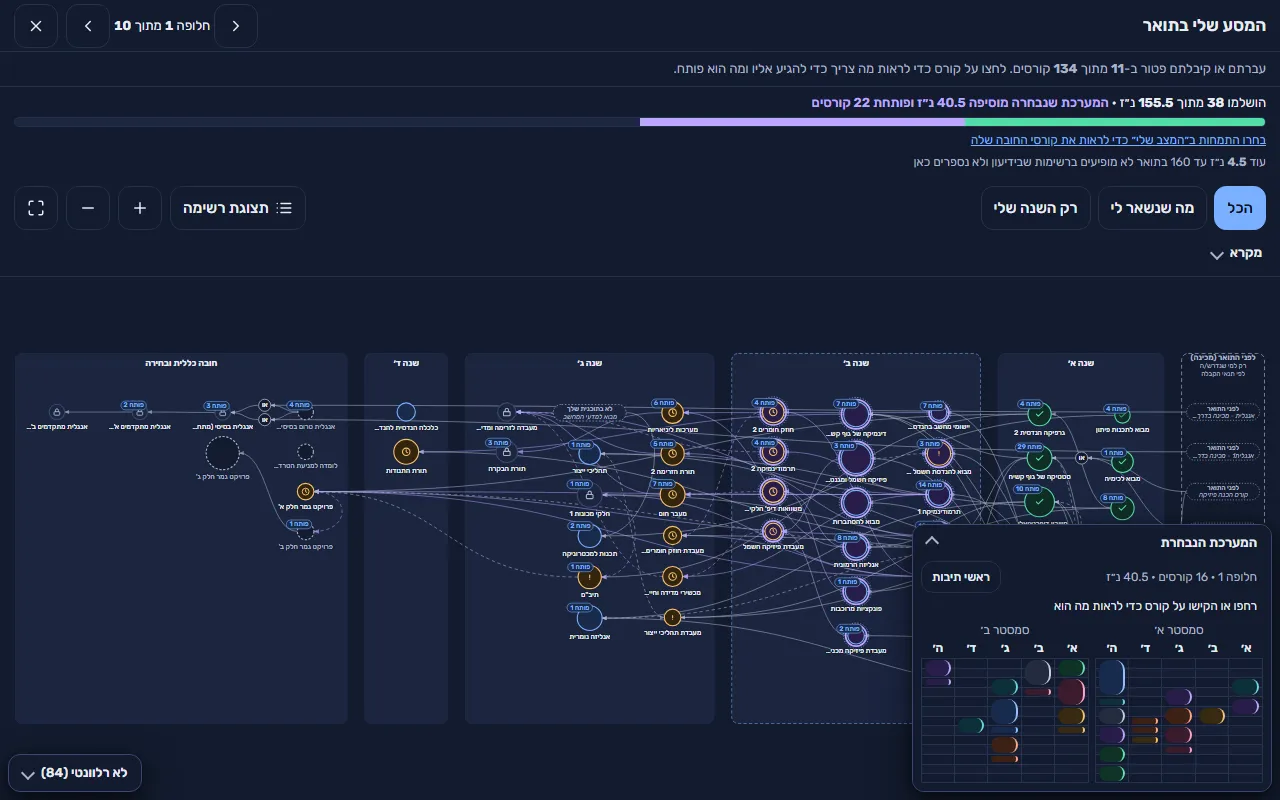
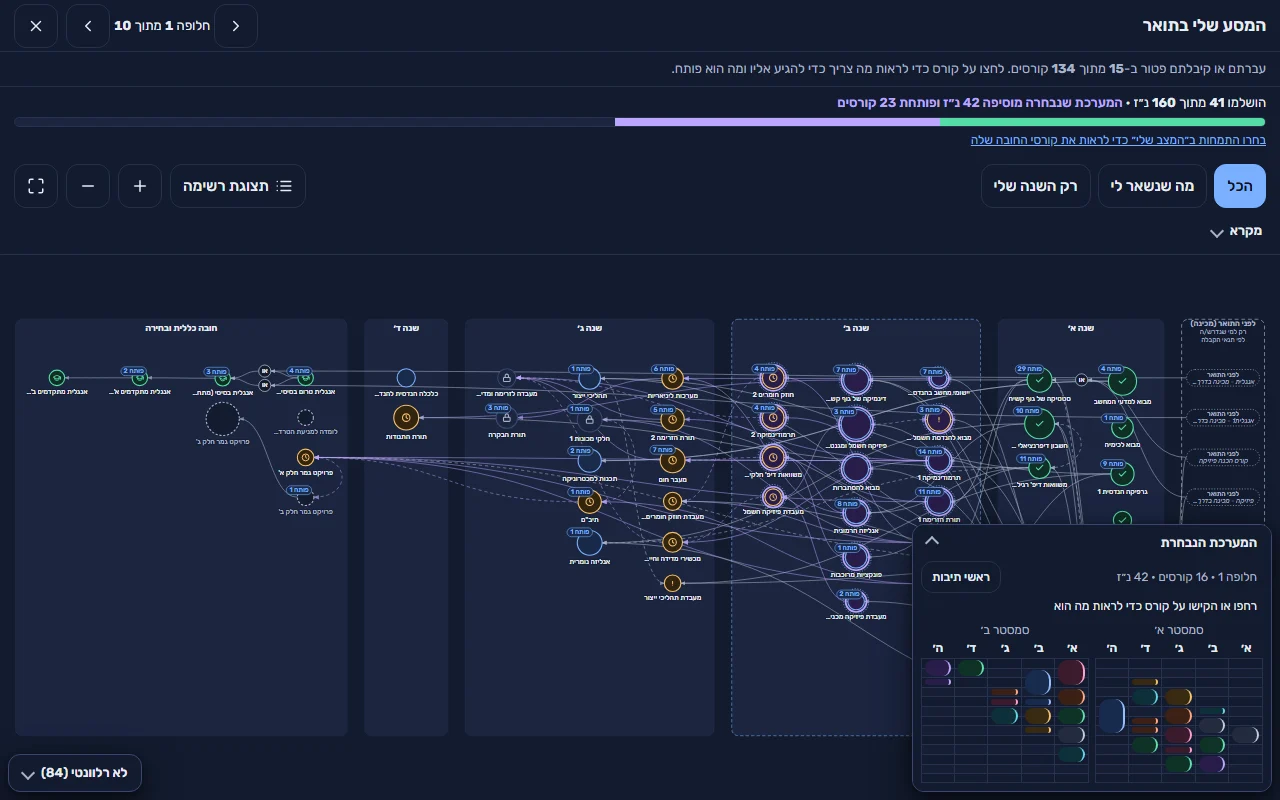
docs(readme): quick start with screenshots of every step, all screenshots re-shot from the current code
scripts/readme-shots.mjs (npm run readme:shots) serves web/, drives headless Chrome and writes every
docs/media image, light and dark, with a fictional student whose friends are the student's own alternatives.

diff --git a/README.md b/README.md
@@ -12,8 +12,8 @@
 ![privacy: stays in your browser](https://img.shields.io/badge/privacy-stays%20in%20your%20browser-success)
 
 <picture>
-  <source media="(prefers-color-scheme: dark)" srcset="docs/media/01-week-desktop-dark.webp?v=20261017">
-  <img src="docs/media/01-week-desktop.webp?v=20261017" alt="שלב 4, מערכות: לוח שבועי של חלופה 1 מתוך 10 מתחת לסרגל ארבעת השלבים, שיעורים בצבע לכל קורס, ושיעורים משותפים עם חבר מסומנים בשמו" width="720">
+  <source media="(prefers-color-scheme: dark)" srcset="docs/media/01-week-desktop-dark.webp?v=20261017-2">
+  <img src="docs/media/01-week-desktop.webp?v=20261017-2" alt="שלב 4, מערכות: לוח שבועי של חלופה 1 מתוך 10 מתחת לסרגל ארבעת השלבים, שיעורים בצבע לכל קורס, ושיעורים משותפים עם חברים מסומנים בשמם" width="720">
 </picture>
 
 </div>
@@ -28,8 +28,8 @@
 
 <p align="center">
 <picture>
-  <source media="(prefers-color-scheme: dark)" srcset="docs/media/02-week-phone-dark.webp?v=20261017">
-  <img src="docs/media/02-week-phone.webp?v=20261017" alt="המערכת בטלפון: סרגל השלבים, יום ראשון, החצים לחלופות בראש המסך וסרגל פעולות בתחתית" width="260">
+  <source media="(prefers-color-scheme: dark)" srcset="docs/media/02-week-phone-dark.webp?v=20261017-2">
+  <img src="docs/media/02-week-phone.webp?v=20261017-2" alt="המערכת בטלפון: יום שלישי עם שיעורים משותפים עם חברה, החצים לחלופות בראש המסך וסרגל פעולות בתחתית" width="260">
 </picture>
 </p>
 
@@ -38,8 +38,8 @@
 **נכשלתם בקורס? גם קורסי ההמשך שלו נחסמים.** מסמנים מה עברתם ומה לא (או מייבאים את גיליון הציונים, שמסמן גם פטורים), והכלי מחשב את דרישות הקדם, הקורסים המקבילים והחזרה על קורסים. מפת ההתקדמות (הכפתור "מפה" בשלב 4) מראה את כל התואר בתמונה אחת, ומה כל חלופה עושה לו.
 
 <picture>
-  <source media="(prefers-color-scheme: dark)" srcset="docs/media/03-map-desktop-dark.webp?v=20261017">
-  <img src="docs/media/03-map-desktop.webp?v=20261017" alt="מפת ההתקדמות: הקורסים לפי שנים עם קווים של דרישות קדם, מד התקדמות בתואר וחלונית קטנה של השבוע הנבחר" width="720">
+  <source media="(prefers-color-scheme: dark)" srcset="docs/media/03-map-desktop-dark.webp?v=20261017-2">
+  <img src="docs/media/03-map-desktop.webp?v=20261017-2" alt="מפת ההתקדמות: הקורסים לפי שנים עם קווים של דרישות קדם, מד התקדמות בתואר וחלונית קטנה של השבוע הנבחר" width="720">
 </picture>
 
 ### עם חברים
@@ -47,17 +47,58 @@
 בשלב 3 ("מה חשוב לי") מוסיפים חבר בקישור שהוא שלח, בהדבקת טקסט, מקובץ PDF או מתמונה של המערכת שלו (הזיהוי נעשה בדפדפן שלכם). שיעור משותף מסומן בלוח, והחיפוש מעדיף מערכות עם יותר שיעורים משותפים. ב"הצג לפי" אפשר לדרג קודם את המערכות עם הכי הרבה שיעורים עם חברים.
 
 <p align="center">
-<img src="docs/media/04-friends-phone.webp?v=20261017" alt="החברים בשלב 3 בטלפון: שדה להדבקת קישור, כפתור להזנת מערכת של חבר, ושני חברים עם מידת החשיבות של כל אחד" width="260">
+<picture>
+  <source media="(prefers-color-scheme: dark)" srcset="docs/media/04-friends-phone-dark.webp?v=20261017-2">
+  <img src="docs/media/04-friends-phone.webp?v=20261017-2" alt="החברים בשלב 3 בטלפון: שדה להדבקת קישור, כפתור להזנת מערכת של חבר, ושני חברים עם מידת החשיבות של כל אחד" width="260">
+</picture>
 </p>
 
-## איך מתחילים
+## התחלה מהירה
 
-נכנסים [לאתר](https://dolev-benezri.github.io/lets_learn/). קודם שתי שאלות קצרות, ואחריהן מופיע בראש הדף סרגל ארבעת השלבים, ואפשר לקפוץ בין כולם.
+נכנסים [לאתר](https://dolev-benezri.github.io/lets_learn/). שתי שאלות קצרות, ואחריהן ארבעה שלבים בסרגל בראש הדף. אפשר לקפוץ ביניהם בכל רגע.
 
-1. **המצב שלי:** קודם שתי שאלות, כל אחת במסך משלה: באיזה מסלול (תוכנית, יום או ערב; שום מסלול לא נבחר מראש) ובאיזו שנת לימודים. אחר כך מופיעים הפרופיל וההתקדמות שלכם, והצעה לייבא את גיליון הציונים הרשמי מהפורטל: הוא מסמן מה עברתם, במה נכשלתם ומאילו קורסים קיבלתם פטור. מי שמעדיף לוחץ "הזנה ידנית" ומסמן בעצמו את הקורסים, לפי שנה.
-2. **קורסים:** לכל קורס בוחרים חובה, אולי או לא. קורסים חסומים או כאלה שלא נלמדים בסמסטר מופיעים בנפרד, עם הסיבה.
-3. **מה חשוב לי:** מסמנים העדפות (ימים פנויים, בלי חלונות, שעות), ומוסיפים חברים.
-4. **מערכות:** המערכות נבנות מיד, וב"הצג לפי" בוחרים לפי מה לסדר אותן. מדפדפים בין החלופות עם החצים בראש הלוח. לחיצה על שיעור פותחת פרטים ונעיצה, והכפתור "מפה" פותח את מפת ההתקדמות. בסוף פותחים את "רשימה להרשמה" ומעתיקים אותה לאפקה-נט, או לוחצים "שתף" כדי לשלוח קישור לחבר.
+### 1. מסלול ושנה
+
+כל שאלה במסך משלה: באיזה מסלול (תוכנית, יום או ערב; שום מסלול לא נבחר מראש), ובאיזו שנת לימודים. "שינוי" מחזיר לבחירת המסלול.
+
+<p align="center">
+<picture>
+  <source media="(prefers-color-scheme: dark)" srcset="docs/media/05-start-track-phone-dark.webp?v=20261017-2">
+  <img src="docs/media/05-start-track-phone.webp?v=20261017-2" alt="שאלה 1 מתוך 2, מה המסלול שלך: כפתור גדול לכל תוכנית, יום וערב" width="240">
+</picture>
+<picture>
+  <source media="(prefers-color-scheme: dark)" srcset="docs/media/06-start-year-phone-dark.webp?v=20261017-2">
+  <img src="docs/media/06-start-year-phone.webp?v=20261017-2" alt="שאלה 2 מתוך 2, באיזו שנה: המסלול שנבחר עם כפתור שינוי, וכפתורים לשנים א׳ עד ד׳" width="240">
+</picture>
+</p>
+
+### 2. המצב שלי
+
+הפרופיל וההתקדמות בתואר, והצעה לייבא את גיליון הציונים הרשמי מהפורטל (PDF). הגיליון מסמן מה עברתם, במה נכשלתם ומאילו קורסים קיבלתם פטור. מי שמעדיף לוחץ "הזנה ידנית" ומסמן בעצמו את הקורסים, לפי שנה.
+
+<picture>
+  <source media="(prefers-color-scheme: dark)" srcset="docs/media/07-start-entry-desktop-dark.webp?v=20261017-2">
+  <img src="docs/media/07-start-entry-desktop.webp?v=20261017-2" alt="שלב 1, המצב שלי: כרטיס פרופיל, כרטיס התקדמות, ומתחתם השאלה איך מסמנים מה עברתם עם הכפתורים ייבוא מגליון ציונים והזנה ידנית" width="720">
+</picture>
+
+### 3. קורסים
+
+לכל קורס בוחרים חובה, אולי או לא. ליד כל קורס כתוב כמה קורסים הוא פותח ובאיזה סמסטר הוא נכנס למערכת. קורסים חסומים או כאלה שלא נלמדים בסמסטר מופיעים בנפרד, עם הסיבה.
+
+<p align="center">
+<picture>
+  <source media="(prefers-color-scheme: dark)" srcset="docs/media/08-courses-phone-dark.webp?v=20261017-2">
+  <img src="docs/media/08-courses-phone.webp?v=20261017-2" alt="שלב 2, הקורסים שלי בטלפון: לכל קורס חובה, אולי או לא, בחירת סמסטר, וכמה קורסים הוא פותח" width="260">
+</picture>
+</p>
+
+### 4. מה חשוב לי
+
+מסמנים העדפות (ימים פנויים, בלי חלונות, שעות) ומוסיפים חברים (ראו [עם חברים](#עם-חברים)).
+
+### 5. מערכות
+
+המערכות נבנות מיד. מדפדפים בין החלופות עם החצים בראש הלוח, ולחיצה על שיעור פותחת פרטים ונעיצה. הכפתור "מפה" פותח את מפת ההתקדמות. בסוף פותחים את "רשימה להרשמה" ומעתיקים אותה לאפקה-נט, או לוחצים "שתף" כדי לשלוח קישור לחבר.
 
 **הצג לפי** נותן ארבע אפשרויות: מומלץ (לפי ההעדפות שלכם), הכי הרבה נ״ז, הכי הרבה עם חברים, ופותחת הכי הרבה קורסי המשך. הבחירה מסדרת את המערכות, אבל בתכנון שנה מלאה (שני סמסטרים) מערכת עם פחות קורסי חובה חסרים תמיד באה קודם. "הכי הרבה עם חברים" עובד רק כשיש חבר אחד לפחות שמוצג במערכת, ואחרת הסדר הוא "מומלץ".
 

diff --git a/docs/ARCHITECTURE.md b/docs/ARCHITECTURE.md
@@ -6,7 +6,7 @@
 
 | נתיב | מה יש בו |
 |---|---|
-| `scripts/` | משיכת נתונים ובנייה, בלי דפדפן: `scrape.mjs` (משיכה מנומסת מהידיעון ל-`web/data/afeka`), `polite.mjs` (קצב, המתנה אחרי חסימה, וסיכום השינויים שהופך להודעת ה-commit), `parse.mjs` (HTML לנתונים), `build.mjs` (קובץ נתונים לתוכנית ולסמסטר), `discover.mjs` (טיוטה של `programs.json` מדפי המסלולים), `audit.mjs` (נוצר ממנו `docs/DATA-AUDIT.md`), `prereq-map.mjs` (נוצרים ממנו `docs/PREREQS.md` ו-`docs/prereqs.json`) ו-`programs.json` (התוכניות והמחזורים שנמשכים) |
+| `scripts/` | משיכת נתונים ובנייה: `scrape.mjs` (משיכה מנומסת מהידיעון ל-`web/data/afeka`), `polite.mjs` (קצב, המתנה אחרי חסימה, וסיכום השינויים שהופך להודעת ה-commit), `parse.mjs` (HTML לנתונים), `build.mjs` (קובץ נתונים לתוכנית ולסמסטר), `discover.mjs` (טיוטה של `programs.json` מדפי המסלולים), `audit.mjs` (נוצר ממנו `docs/DATA-AUDIT.md`), `prereq-map.mjs` (נוצרים ממנו `docs/PREREQS.md` ו-`docs/prereqs.json`), `readme-shots.mjs` (צילומי המסך ב-`docs/media/`, בדפדפן Chrome) ו-`programs.json` (התוכניות והמחזורים שנמשכים) |
 | `scripts/fixtures/` | דפי HTML ו-JSON אמיתיים מהידיעון, לבדיקות של המשיכה והפענוח |
 | `web/` | האתר: HTML ו-ES modules, בלי build. `index.html` הוא האתר, `legal.html` תנאי השימוש והפרטיות, `icon.svg` ו-`og.png` (נוצר מ-`design-system/og.html`) |
 | `web/app.js` | מצב (כולל `sortBy` של "הצג לפי" ו-`programSet`: האם נבחר מסלול, כי בביקור ראשון אף מסלול לא נבחר מראש), `normalize()`, localStorage, טעינת נתונים, החלפת תוכנית ומחזור, ושלבי הניווט (`STEPS`, `routeOf`, `hashOf`: `#me`, `#courses`, `#prefs`, וכל hash אחר הוא המערכות) |

diff --git a/docs/DEVELOPING.md b/docs/DEVELOPING.md
@@ -23,6 +23,14 @@ npm test
 
 מריץ `node --test` על תיקיית `test/`: פרסור, בניית נתונים, הגדרות התוכניות, תקנון, חיפוש, שיתוף, מצב האפליקציה, הלוח ומדיניות האבטחה (CSP).
 
+## צילומי המסך ב-README
+
+```bash
+npm run readme:shots
+```
+
+מצלם מחדש את כל התמונות ב-`docs/media/` מהקוד הנוכחי, בהיר וכהה, עם סטודנט בדוי (הנדסה מכנית, שנה ב׳) ושני חברים בדויים. צריך Chrome (או `CHROME=<נתיב>`). אחרי כל צילום מעלים את `?v=` בקישורי התמונות ב-README, כדי שעותק ישן מהמטמון לא יוצג. מצלמים מחדש אחרי כל שינוי שנראה באחד המסכים.
+
 ## זרימת הנתונים
 
 ```mermaid
